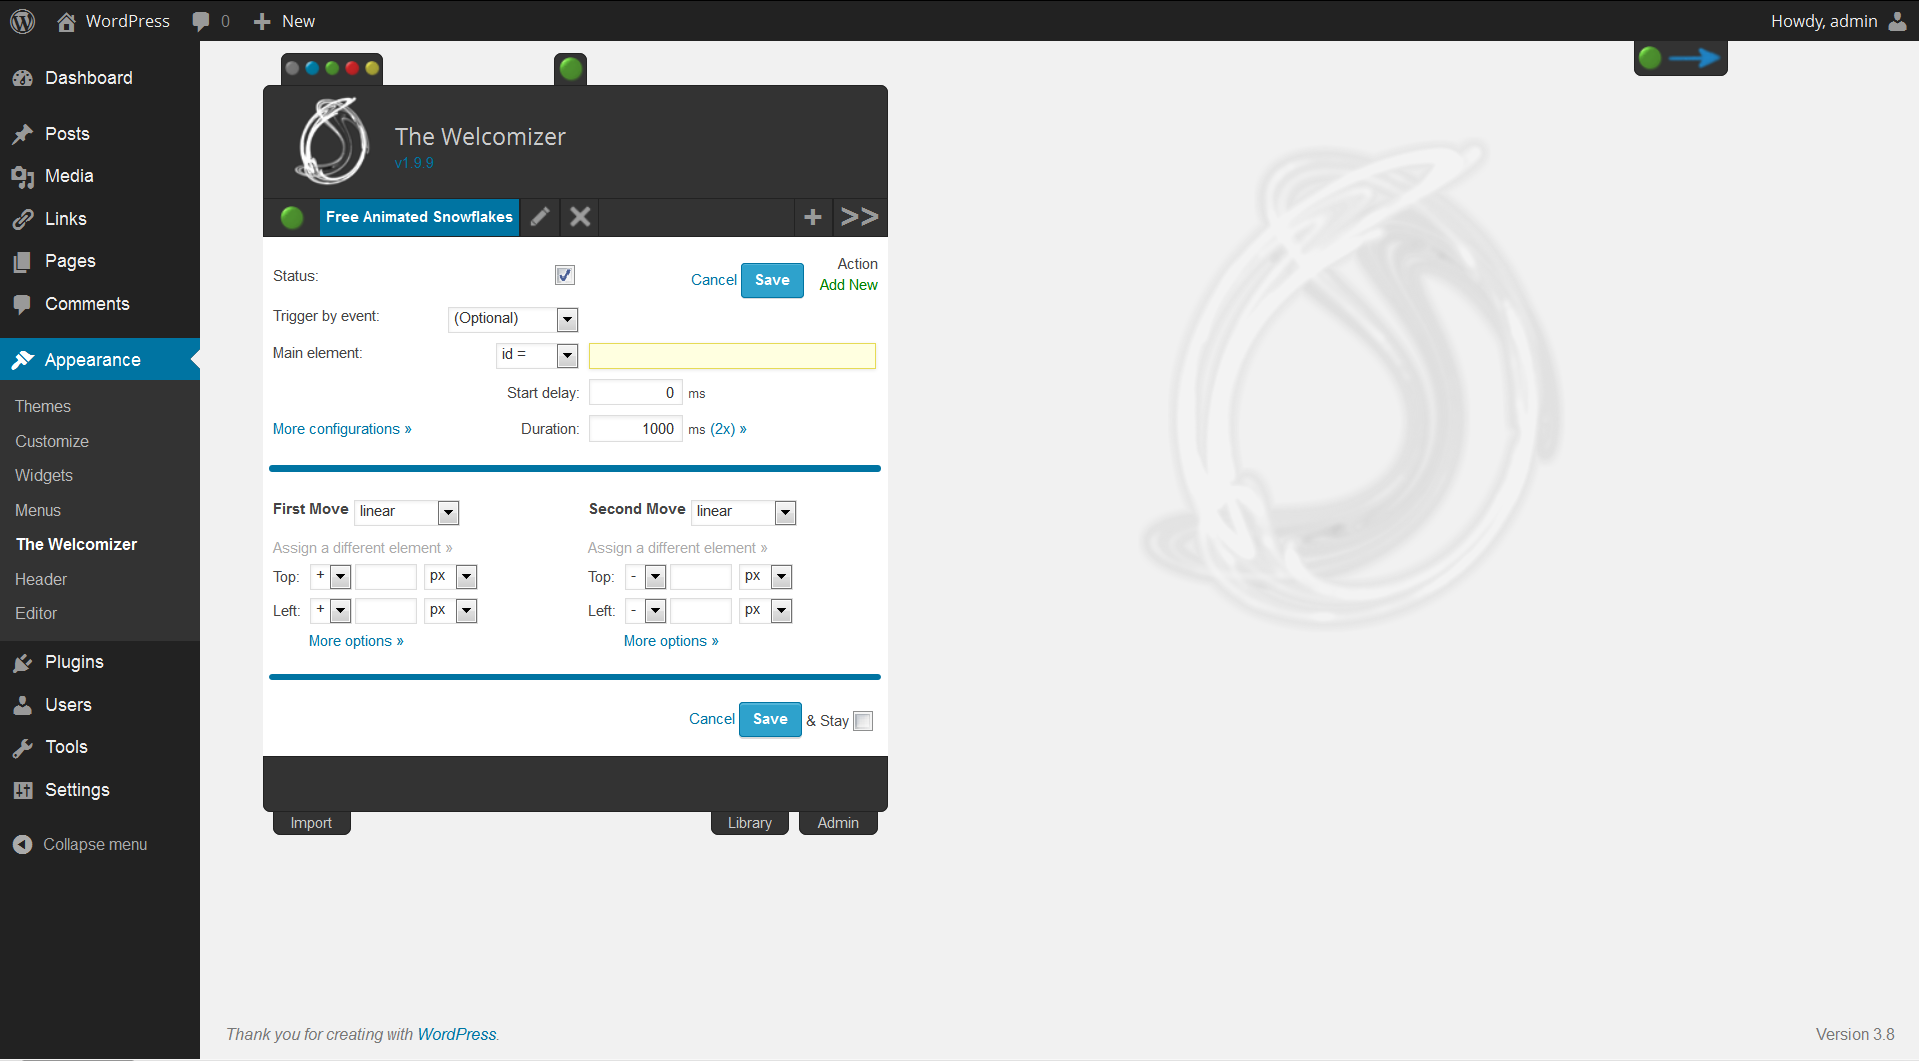
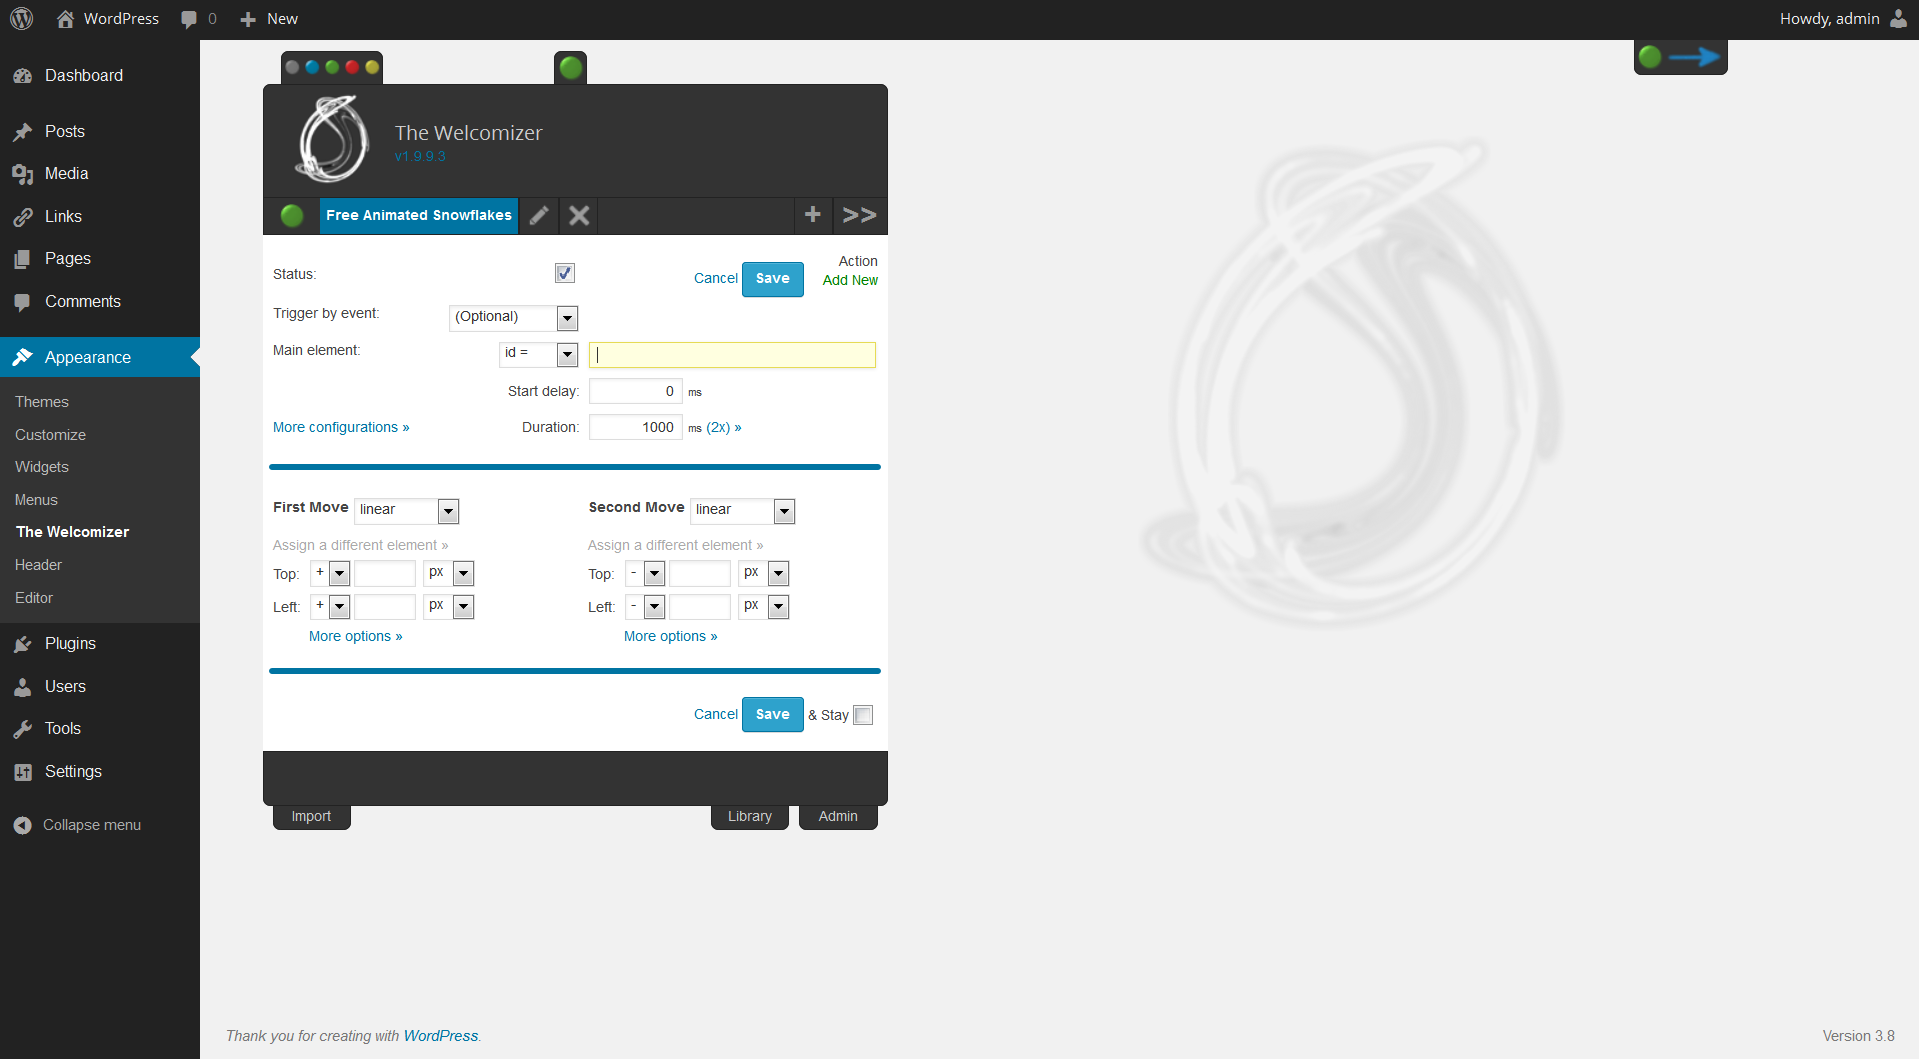
v1.9.9.3
git-svn-id: https://plugins.svn.wordpress.org/the-welcomizer/trunk@821574 b8457f37-d9ea-0310-8a92-e5e31aec5664

diff --git a/skins/blue/twiz-style.css b/skins/blue/twiz-style.css
@@ -538,6 +538,9 @@ div #twiz_head_logo:hover {
 .twiz-row-color-3 {
     background-color: #e1e1e1;
 }
+.twiz-row-color-4 {
+    background-color: #0074A2;
+}
 .twiz-td-status {
     width: 42px;
     padding-top: 4px;
@@ -641,7 +644,7 @@ a.twiz-red:hover {
 #twiz_tab_line{
     width: 231px;
     height: 0px;
-    border-bottom:3px solid #333333;
+    border-bottom:3px solid #0074A2;
     margin: 24px 0px 7px 0px;
     position: absolute;
 }
@@ -652,7 +655,7 @@ a.twiz-red:hover {
     color: #cccccc;
     display: block;
     float: left;
-    border: 1px solid #333333;
+    border: 1px solid #222222;
     padding: 4px 8px 4px 8px;
     margin: 0px 5px 8px 0px;
     background-color: #333333;

diff --git a/skins/green/twiz-style.css b/skins/green/twiz-style.css
@@ -538,6 +538,9 @@ div #twiz_head_logo:hover {
 .twiz-row-color-3 {
     background-color: #e1e1e1;
 }
+.twiz-row-color-4 {
+    background-color: #4c8412;
+}
 .twiz-td-status {
     width: 42px;
     padding-top: 4px;
@@ -641,7 +644,7 @@ a.twiz-red:hover {
 #twiz_tab_line{
     width: 231px;
     height: 0px;
-    border-bottom:3px solid #333333;
+    border-bottom:3px solid #4c8412;
     margin: 24px 0px 7px 0px;
     position: absolute;
 }
@@ -652,7 +655,7 @@ a.twiz-red:hover {
     color: #cccccc;
     display: block;
     float: left;
-    border: 1px solid #333333;
+    border: 1px solid #222222;
     padding: 4px 8px 4px 8px;
     margin: 0px 5px 8px 0px;
     background-color: #333333;

diff --git a/skins/red/twiz-style.css b/skins/red/twiz-style.css
@@ -538,6 +538,9 @@ div #twiz_head_logo:hover {
 .twiz-row-color-3 {
     background-color: #e1e1e1;
 }
+.twiz-row-color-4 {
+    background-color: #b52728;
+}
 .twiz-td-status {
     width: 42px;
     padding-top: 4px;
@@ -641,7 +644,7 @@ a.twiz-red:hover {
 #twiz_tab_line{
     width: 231px;
     height: 0px;
-    border-bottom:3px solid #333333;
+    border-bottom:3px solid #b52728;
     margin: 24px 0px 7px 0px;
     position: absolute;
 }
@@ -652,7 +655,7 @@ a.twiz-red:hover {
     color: #cccccc;
     display: block;
     float: left;
-    border: 1px solid #333333;
+    border: 1px solid #222222;
     padding: 4px 8px 4px 8px;
     margin: 0px 5px 8px 0px;
     background-color: #333333;

diff --git a/skins/yellow/twiz-style.css b/skins/yellow/twiz-style.css
@@ -538,6 +538,9 @@ div #twiz_head_logo:hover {
 .twiz-row-color-3 {
     background-color: #e1e1e1;
 }
+.twiz-row-color-4 {
+    background-color: #9B9717;
+}
 .twiz-td-status {
     width: 42px;
     padding-top: 4px;
@@ -641,7 +644,7 @@ a.twiz-red:hover {
 #twiz_tab_line{
     width: 231px;
     height: 0px;
-    border-bottom:3px solid #333333;
+    border-bottom:3px solid #9B9717;
     margin: 24px 0px 7px 0px;
     position: absolute;
 }
@@ -652,7 +655,7 @@ a.twiz-red:hover {
     color: #cccccc;
     display: block;
     float: left;
-    border: 1px solid #333333;
+    border: 1px solid #222222;
     padding: 4px 8px 4px 8px;
     margin: 0px 5px 8px 0px;
     background-color: #333333;

diff --git a/skins/_default/twiz-style.css b/skins/_default/twiz-style.css
@@ -532,6 +532,9 @@ div #twiz_head_logo:hover {
 .twiz-row-color-3 {
     background-color: #e1e1e1;
 }
+.twiz-row-color-4 {
+    background-color: #D7D7D7;
+}
 .twiz-td-status {
     width: 42px;
     padding-top: 4px;
@@ -652,6 +655,7 @@ a.twiz-red:hover {
 }
 .twiz-tab-selected {
    background-color: #D7D7D7;
+   border: 1px solid #D7D7D7;
    font-weight: bold;
 }
 .twiz-add-element {

diff --git a/includes/twiz.class.php b/includes/twiz.class.php
@@ -863,8 +863,8 @@ class Twiz{
         $pluginDir = str_replace('/includes/','',$pluginDir);
 
         // Twiz variable configuration
-        $this->version    = '1.9.9.2';
-        $this->cssVersion = '2';
+        $this->version    = '1.9.9.3';
+        $this->cssVersion = '2-1';
         $this->dbVersion  = '3.5';
         $this->pluginUrl  = $pluginUrl;
         $this->pluginDir  = $pluginDir;
@@ -1211,7 +1211,7 @@ class Twiz{
                     $boldclass = ( $parent_id == $value[self::F_EXPORT_ID] ) ? ' twiz-bold' : '';
                 }
             }
-                    $borderbggroupclass = ( $value[self::F_PARENT_ID] != '' ) ? ' twiz-row-color-3' : '';
+                    $borderbggroupclass = ( $value[self::F_PARENT_ID] != '' ) ? ' twiz-row-color-4' : '';
             
             if( $value[self::F_TYPE] != self::ELEMENT_TYPE_GROUP ){
             

diff --git a/twiz-index.php b/twiz-index.php
@@ -1,7 +1,7 @@
 <?php
 /*
 Plugin Name: The Welcomizer
-Version: 1.9.9.2
+Version: 1.9.9.3
 Plugin URI: http://www.sebastien-laframboise.com/wordpress/plugins-wordpress/the-welcomizer
 Description: This plugin allows you to animate your blog using jQuery effects. (100% AJAX) + .js/.css Includer.
 Author: S&#233;bastien Laframboise
